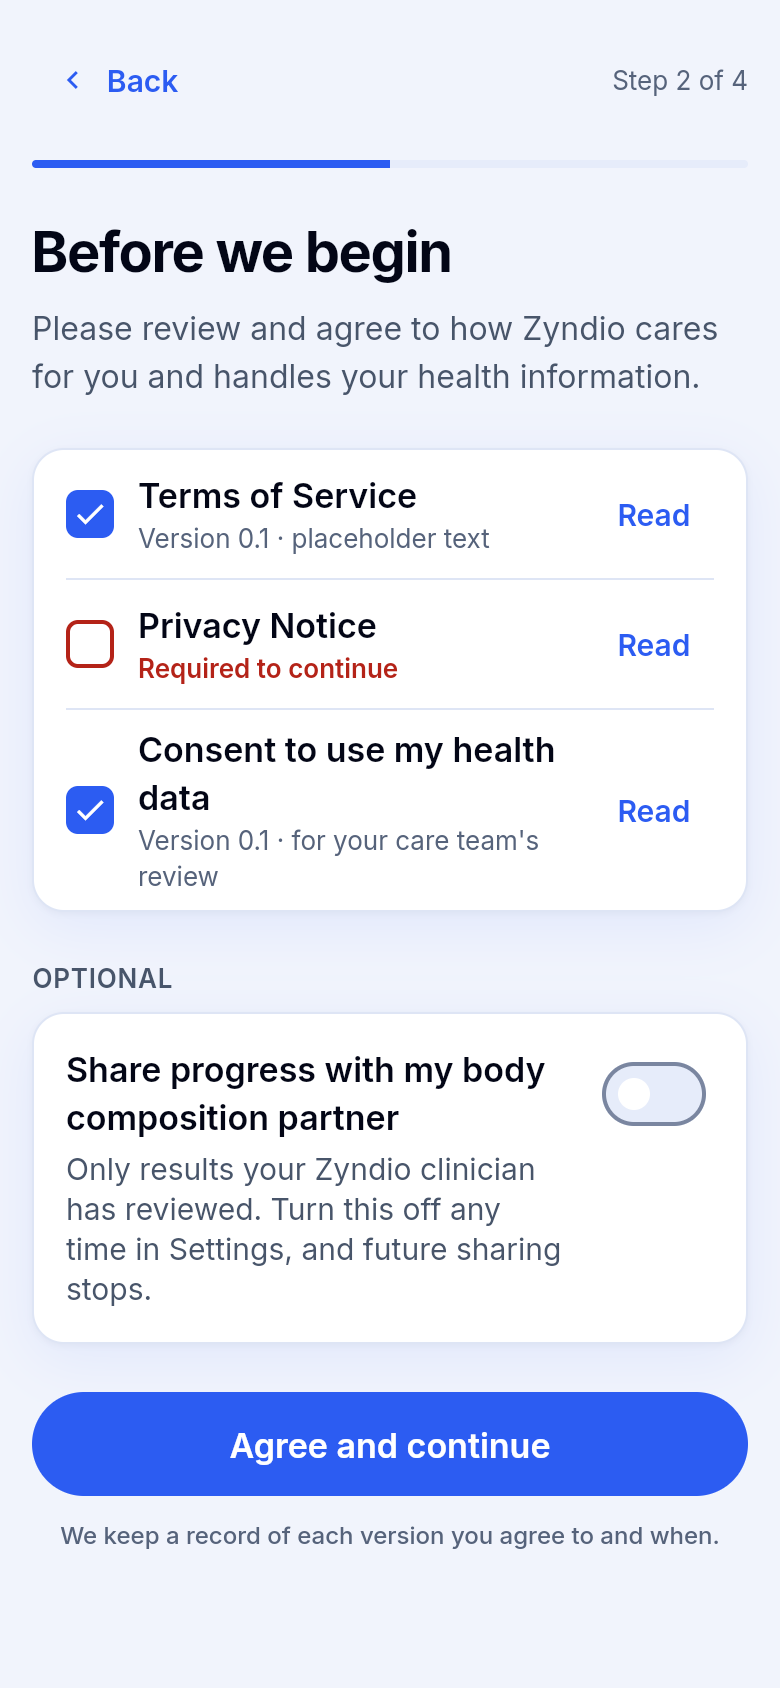
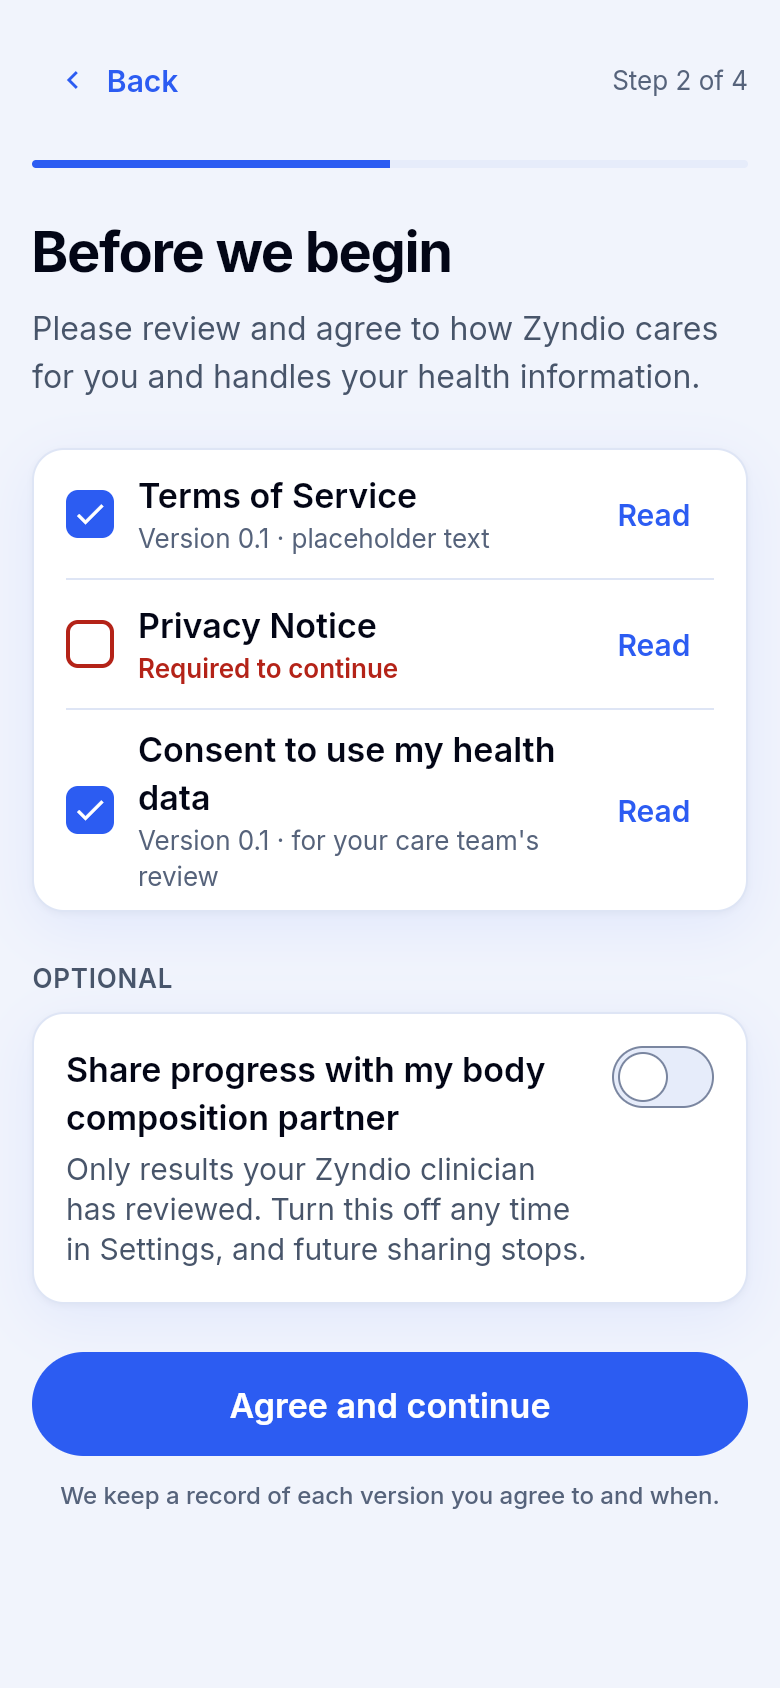
TC-009: demo safety follow-ups (#3)
* chore: import base source with fresh history, white-label rename, secrets moved to env

- Copy current source of the base app (no .git, .env, binaries or build output)
- Rename brand identifiers, package ids (com.zyndio.patient), packages to neutral names
  (platform_sdk, vendored platform_wearables)
- Remove hardcoded keys and old backend URLs; read them from env/dart-define
- Replace brand images with PLACEHOLDER ZYNDIO wordmark images
- Migrate lucide_icons to lucide_icons_flutter (Flutter 3.47 compatibility)

* chore(flutter): dart fix for unused imports, casts and null checks (no behaviour change)

* fix(web): tailwind brand colour key matches renamed brand-* classes

* build(android): conditional google-services, single Gradle DSL, Firebase guard

- Only apply the google-services plugin when google-services.json exists,
  so debug builds work without a Firebase project configured.
- Remove duplicate/conflicting settings.gradle.kts and build.gradle.kts
  (mismatched AGP/Kotlin versions); the Groovy DSL is the one actually used.
- Delete the unused com.example.flutter_app.MainActivity stub; the manifest
  resolves to com.zyndio.patient.MainActivity.
- Add firebaseConfigured (Firebase.apps.isNotEmpty) and guard every
  FirebaseMessaging/FirebaseAnalytics .instance access in
  NotificationService/AnalyticsService so push/analytics degrade gracefully
  and nothing crashes when Firebase isn't initialised (dev/CI builds).
[…]

Changed region(s): [[0.0308, 0.7085, 0.9846, 0.9242], [0.7692, 0.6161, 0.9231, 0.6777]]

diff --git a/flutter_app/test/demo/widgets/zyndio_switch_test.dart b/flutter_app/test/demo/widgets/zyndio_switch_test.dart
@@ -1,0 +1,78 @@
+import 'package:flutter/material.dart';
+import 'package:flutter_test/flutter_test.dart';
+import 'package:zyndio_patient/config/theme.dart';
+import 'package:zyndio_patient/demo/widgets/zyndio_switch.dart';
+
+void main() {
+  Future<void> pumpSwitch(WidgetTester tester, {required ThemeData theme, required bool value}) {
+    return tester.pumpWidget(
+      MaterialApp(
+        theme: theme,
+        home: Scaffold(body: Center(child: ZyndioSwitch(value: value))),
+      ),
+    );
+  }
+
+  Container trackOf(WidgetTester tester) => tester.widget<Container>(
+        find.descendant(of: find.byType(ZyndioSwitch), matching: find.byType(Container)).first,
+      );
+
+  Container knobOf(WidgetTester tester) => tester.widget<Container>(
+        find.descendant(of: find.byType(ZyndioSwitch), matching: find.byType(Container)).last,
+      );
+
+  for (final entry in {'light': ZyndioColors.light, 'dark': ZyndioColors.dark}.entries) {
+    final themeName = entry.key;
+    final colors = entry.value;
+    final theme = themeName == 'light' ? BrandTheme.lightTheme : BrandTheme.darkTheme;
+
+    for (final value in [false, true]) {
+      final stateName = value ? 'on' : 'off';
+
+      testWidgets('$themeName theme, $stateName: track and knob are the correct size', (tester) async {
+        await pumpSwitch(tester, theme: theme, value: value);
+
+        expect(tester.getSize(find.byType(ZyndioSwitch)), const Size(ZyndioSize.switchWidth, ZyndioSize.switchHeight));
+        expect(tester.getSize(find.descendant(of: find.byType(ZyndioSwitch), matching: find.byType(Container)).last),
+            const Size(ZyndioSize.switchKnob, ZyndioSize.switchKnob));
+      });
+
+      testWidgets('$themeName theme, $stateName: track fill/border match ZyndioColors tokens', (tester) async {
+        await pumpSwitch(tester, theme: theme, value: value);
+
+        final trackDecoration = trackOf(tester).decoration as BoxDecoration;
+        final expectedTrackColor = value ? colors.brandPrimary : colors.bgSunken;
+        final expectedTrackBorder = value ? colors.brandPrimary : colors.borderStrong;
+
+        expect(trackDecoration.color, expectedTrackColor);
+        expect(trackDecoration.border, Border.all(color: expectedTrackBorder));
+      });
+
+      testWidgets('$themeName theme, $stateName: knob fill/outline match ZyndioColors tokens', (tester) async {
+        await pumpSwitch(tester, theme: theme, value: value);
+
+        final knobDecoration = knobOf(tester).decoration as BoxDecoration;
+        final expectedKnobOutline = value ? colors.brandPrimary : colors.borderStrong;
+
+        expect(knobDecoration.color, colors.bgSurface);
+        expect(knobDecoration.shape, BoxShape.circle);
+        expect(knobDecoration.border, Border.all(color: expectedKnobOutline));
+      });
+
+      testWidgets('$themeName theme, $stateName: knob sits at the ${value ? 'right' : 'left'}', (tester) async {
+        await pumpSwitch(tester, theme: theme, value: value);
+
+        final trackLeft = tester.getTopLeft(find.byType(ZyndioSwitch)).dx;
+        final knobLeft = tester.getTopLeft(
+          find.descendant(of: find.byType(ZyndioSwitch), matching: find.byType(Container)).last,
+        ).dx;
+        final offsetWithinTrack = knobLeft - trackLeft;
+        // 1px track border (auto-inset by BoxDecoration) + the spec's
+        // 2px (off) / 22px (on) CSS left offset.
+        final expectedOffset = value ? 23.0 : 3.0;
+
+        expect(offsetWithinTrack, closeTo(expectedOffset, 0.1));
+      });
+    }
+  }
+}

diff --git a/flutter_app/lib/demo/widgets/zyndio_switch.dart b/flutter_app/lib/demo/widgets/zyndio_switch.dart
@@ -1,0 +1,68 @@
+import 'package:flutter/material.dart';
+
+import '../../config/theme.dart';
+
+/// C17 optional-consent switch: track 51x31 with a 1px border, and a knob
+/// nearly the full track height (25x25, inset 2px) with its own 1px outline
+/// — unlike a Material [Switch], the off-state knob stays clearly outlined
+/// and full height instead of shrinking to a small dot.
+///
+/// Purely visual: callers wrap it in [ExcludeSemantics]/[IgnorePointer] and
+/// drive toggling from the surrounding hit area (see `optional_card.dart`).
+class ZyndioSwitch extends StatelessWidget {
+  const ZyndioSwitch({super.key, required this.value, this.onChanged});
+
+  final bool value;
+  final ValueChanged<bool>? onChanged;
+
+  static const double _knobSize = ZyndioSize.switchKnob;
+  static const double _knobInsetOff = 2.0;
+  static const double _knobInsetOn = 22.0;
+  static const double _knobTop = 2.0;
+  static const double _trackBorderWidth = 1.0;
+
+  @override
+  Widget build(BuildContext context) {
+    final colors = Theme.of(context).extension<ZyndioColors>()!;
+    final trackColor = value ? colors.brandPrimary : colors.bgSunken;
+    final trackBorderColor = value ? colors.brandPrimary : colors.borderStrong;
+    final knobOutlineColor = value ? colors.brandPrimary : colors.borderStrong;
+    final duration = ZyndioMotion.of(context);
+
+    return GestureDetector(
+      onTap: onChanged == null ? null : () => onChanged!(!value),
+      child: Container(
+        width: ZyndioSize.switchWidth,
+        height: ZyndioSize.switchHeight,
+        // No explicit padding: BoxDecoration.border already contributes an
+        // implicit inset equal to the border width, matching the CSS
+        // border-box containing block the left:2/22 offsets below assume.
+        decoration: BoxDecoration(
+          color: trackColor,
+          borderRadius: BorderRadius.circular(ZyndioRadius.pill),
+          border: Border.all(color: trackBorderColor, width: _trackBorderWidth),
+        ),
+        child: Stack(
+          clipBehavior: Clip.none,
+          children: [
+            AnimatedPositioned(
+              duration: duration,
+              curve: Curves.easeInOut,
+              left: value ? _knobInsetOn : _knobInsetOff,
+              top: _knobTop,
+              child: Container(
+                width: _knobSize,
+                height: _knobSize,
+                decoration: BoxDecoration(
+                  color: colors.bgSurface,
+                  shape: BoxShape.circle,
+                  border: Border.all(color: knobOutlineColor, width: _trackBorderWidth),
+                ),
+              ),
+            ),
+          ],
+        ),
+      ),
+    );
+  }
+}

diff --git a/flutter_app/test/demo/widgets/optional_card_test.dart b/flutter_app/test/demo/widgets/optional_card_test.dart
@@ -2,6 +2,7 @@ import 'package:flutter/material.dart';
 import 'package:flutter_test/flutter_test.dart';
 import 'package:zyndio_patient/config/theme.dart';
 import 'package:zyndio_patient/demo/widgets/optional_card.dart';
+import 'package:zyndio_patient/demo/widgets/zyndio_switch.dart';
 
 void main() {
   testWidgets('OptionalCard renders its copy and toggles on tap anywhere in the card', (tester) async {
@@ -28,7 +29,7 @@ void main() {
   });
 
   testWidgets(
-    'dark mode: OFF switch thumb/track/outline colours come from ZyndioColors tokens, never a hardcoded white knob',
+    'dark mode: OFF switch knob/track/outline colours come from ZyndioColors tokens, never a hardcoded white knob',
     (tester) async {
       await tester.pumpWidget(
         MaterialApp(
@@ -43,7 +44,42 @@ void main() {
         ),
       );
 
-      final context = tester.element(find.byType(Switch));
+      final context = tester.element(find.byType(ZyndioSwitch));
+      final colors = Theme.of(context).extension<ZyndioColors>()!;
+
+      final track = tester.widget<Container>(
+        find.descendant(of: find.byType(ZyndioSwitch), matching: find.byType(Container)).first,
+      );
+      final trackDecoration = track.decoration as BoxDecoration;
+      expect(trackDecoration.color, colors.bgSunken);
+      expect(trackDecoration.border, Border.all(color: colors.borderStrong));
+
+      final knob = tester.widget<Container>(
+        find.descendant(of: find.byType(ZyndioSwitch), matching: find.byType(Container)).last,
+      );
+      final knobDecoration = knob.decoration as BoxDecoration;
+      expect(knobDecoration.color, colors.bgSurface);
+      expect(knobDecoration.color, isNot(Colors.white));
+      expect(knobDecoration.border, Border.all(color: colors.borderStrong));
+
+      final knobSize = tester.getSize(
+        find.descendant(of: find.byType(ZyndioSwitch), matching: find.byType(Container)).last,
+      );
+      expect(knobSize, const Size(ZyndioSize.switchKnob, ZyndioSize.switchKnob));
+    },
+  );
+
+  testWidgets(
+    'dark mode: global SwitchThemeData OFF colours still come from ZyndioColors tokens',
+    (tester) async {
+      await tester.pumpWidget(
+        MaterialApp(
+          theme: BrandTheme.darkTheme,
+          home: const Scaffold(body: SizedBox()),
+        ),
+      );
+
+      final context = tester.element(find.byType(SizedBox));
       final colors = Theme.of(context).extension<ZyndioColors>()!;
       final switchTheme = Theme.of(context).switchTheme;
       const offStates = <WidgetState>{};

diff --git a/flutter_app/lib/demo/widgets/optional_card.dart b/flutter_app/lib/demo/widgets/optional_card.dart
@@ -2,6 +2,7 @@ import 'package:flutter/material.dart';
 
 import '../../config/theme.dart';
 import 'demo_card.dart';
+import 'zyndio_switch.dart';
 
 /// C17 Optional consent card: title + body + trailing switch. Hit area is
 /// the whole card, role switch, off by default.
@@ -43,13 +44,13 @@ class OptionalCard extends StatelessWidget {
                 ),
               ),
               const SizedBox(width: ZyndioSpace.s12),
-              // A real Switch (not a custom-painted visual) so colour comes
-              // entirely from the app's SwitchThemeData tokens — no
-              // per-widget override, and no risk of a hardcoded white knob
-              // showing up against a dark track in dark mode.
+              // A token-driven switch (not Material's Switch) so the off-state
+              // knob stays an outlined, full-height circle in dark mode —
+              // Material's Switch can't draw that and shrinks the off thumb
+              // to a small dot. Colour comes entirely from ZyndioColors.
               ExcludeSemantics(
                 child: IgnorePointer(
-                  child: Switch(value: value, onChanged: (_) {}),
+                  child: ZyndioSwitch(value: value, onChanged: (_) {}),
                 ),
               ),
             ],

diff --git a/flutter_app/lib/config/theme.dart b/flutter_app/lib/config/theme.dart
@@ -292,6 +292,7 @@ abstract final class ZyndioSize {
   static const double checkbox = 24.0;
   static const double switchWidth = 51.0;
   static const double switchHeight = 31.0;
+  static const double switchKnob = 25.0;
   static const double icon = 24.0;
   static const double iconSmall = 18.0;
   static const double spinner = 20.0;

diff --git a/CLAUDE.md b/CLAUDE.md
@@ -36,7 +36,8 @@ cd space && npm run lint && npm run build
 Security:
 ```bash
 gitleaks git --config .gitleaks.toml --redact
-bash scripts/leak-scan.sh
+bash scripts/leak-scan.sh          # fails (not skips) if a required build output is missing
+bash scripts/test-leak-scan.sh     # self-test proving the above
 ```
 
 ## Rules
